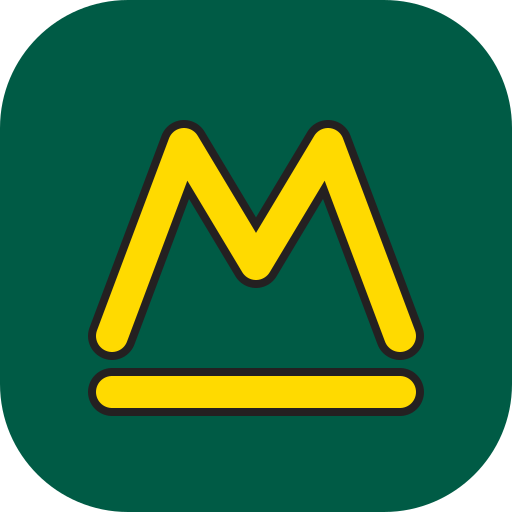
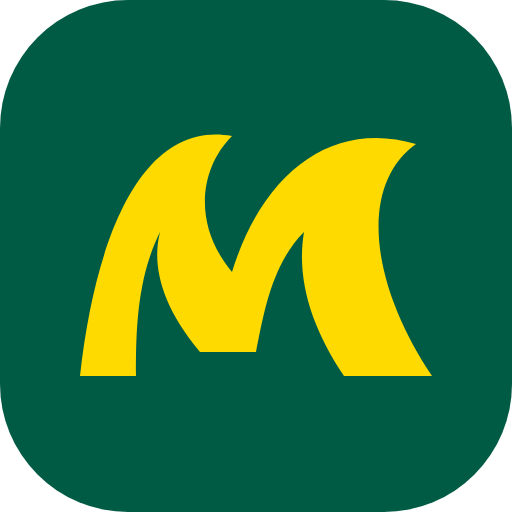
Use Breakers wave M for app branding

Changed region(s): [[0.1562, 0.2188, 0.8438, 0.8125]]

diff --git a/src/styles.css b/src/styles.css
@@ -63,10 +63,16 @@ button:disabled {
   border-bottom: 1px solid var(--line);
 }
 .wordmark {
+  display: inline-flex;
+  align-items: center;
+  gap: 8px;
   text-decoration: none;
   font-size: 30px;
   font-weight: 700;
   letter-spacing: -1.5px;
+}
+.wordmark-icon {
+  flex-shrink: 0;
 }
 .wordmark span {
   display: block;
@@ -305,6 +311,10 @@ footer {
   }
   .wordmark {
     font-size: 27px;
+  }
+  .wordmark-icon {
+    width: 30px;
+    height: 30px;
   }
   .wordmark span {
     font-size: 8px;

diff --git a/src/App.tsx b/src/App.tsx
@@ -314,7 +314,8 @@ export default function App() {
       <UpdateBanner />
       <header className="site-header">
         <a className="wordmark" href="/">
-          mendocean<span>LAKE MENDOTA / MADISON, WI</span>
+          <img className="wordmark-icon" src="/logo.svg" alt="" width="38" height="38" />
+          <div>mendocean<span>LAKE MENDOTA / MADISON, WI</span></div>
         </a>
         {user ? (
           <button className="button subtle" onClick={() => setSettings(true)}>

diff --git a/vite.config.ts b/vite.config.ts
@@ -47,6 +47,7 @@ export default defineConfig({
             "index.html",
             "manifest.webmanifest",
             "icon.svg",
+            "logo.svg",
             "icon-180.png",
             "icon-192.png",
             "icon-512.png",
